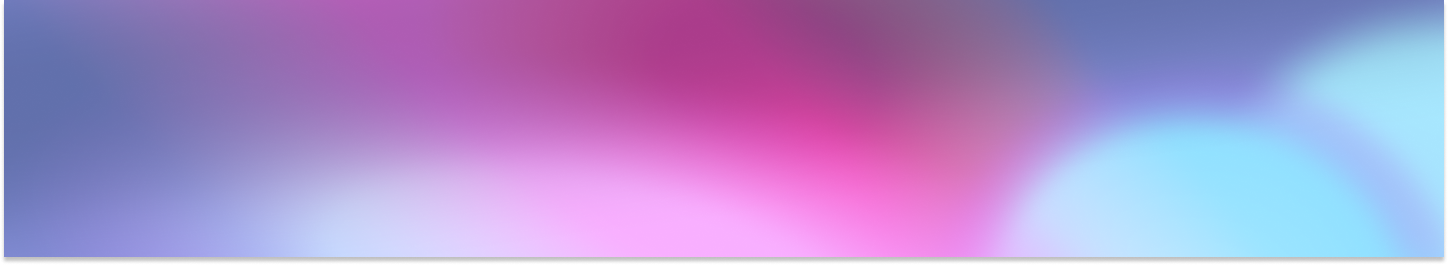
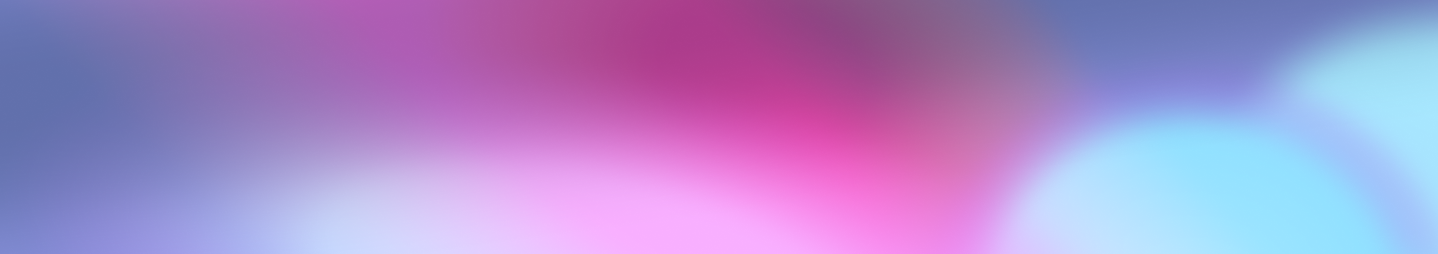
fixed navbar bg

Changed region(s): [[0.0, 0.0, 1.0, 1.0]]

diff --git a/assets/styles.scss b/assets/styles.scss
@@ -58,14 +58,24 @@ body > *{
     justify-content: space-between;
     align-items: center;
     gap: 1em;
-    width: 100%;
+    background-color: red;
     background-image: url('bg-gradient-rect.png');
     background-size: cover;
-    border-radius: 12px;
-    margin-top: 1em !important;
+    background-repeat: no-repeat;
+    background-position: center;
+    border-radius: 10px;
+    margin: 1em !important;
     margin-bottom: 5em !important;
     padding: 0 1em;
     box-shadow: 0 5px 15px rgba(0, 0, 0, 0.05);
+    overflow: hidden;
+    position: relative;
+    .navbar-bg{
+        position: absolute;
+        top: 0;
+        left: 0;
+        width: 100%;
+    }
     .logo{
         svg{
             width: 52px;

diff --git a/assets/styles.css b/assets/styles.css
@@ -61,14 +61,24 @@ body > * {
   justify-content: space-between;
   align-items: center;
   gap: 1em;
-  width: 100%;
+  background-color: red;
   background-image: url("bg-gradient-rect.png");
   background-size: cover;
-  border-radius: 12px;
-  margin-top: 1em !important;
+  background-repeat: no-repeat;
+  background-position: center;
+  border-radius: 10px;
+  margin: 1em !important;
   margin-bottom: 5em !important;
   padding: 0 1em;
   box-shadow: 0 5px 15px rgba(0, 0, 0, 0.05);
+  overflow: hidden;
+  position: relative;
+}
+.navbar .navbar-bg {
+  position: absolute;
+  top: 0;
+  left: 0;
+  width: 100%;
 }
 .navbar .logo svg {
   width: 52px;

diff --git a/index.html b/index.html
@@ -42,7 +42,7 @@
         <p class="hero-title">Welcome, name</p>
     </div> -->
 
-    <div class="container">
+    <div class="">
         <div class="navbar">
             <a href="?" class="logo">
                 <svg width="84" height="76" viewBox="0 0 84 76" fill="#fff" xmlns="http://www.w3.org/2000/svg">
